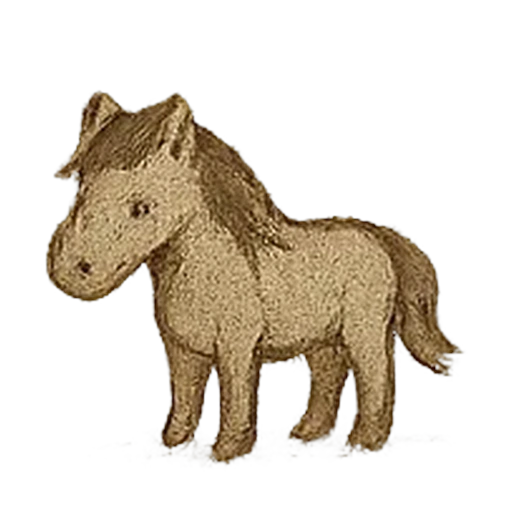
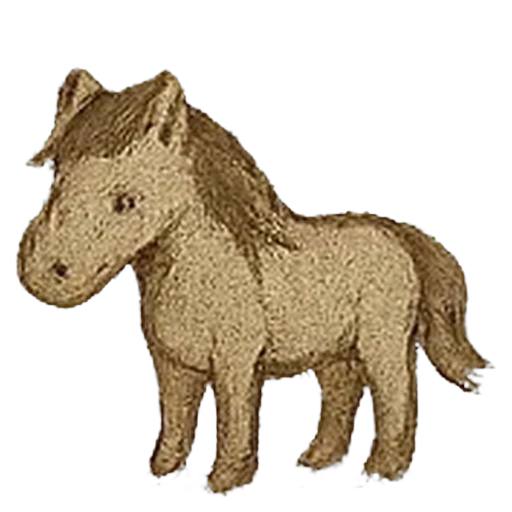
fix(realm): aggressive crop animal sprites to 94% fill and boost overlay sizes
Horse: tileSize*1.1 (136% of hero height - noble steed)
Sheep: tileSize*0.75 (101% of hero height - companion)
Penguin: tileSize*0.55 (69% of hero height - compact buddy)

Images now tightly cropped with only 4px padding instead of
the previous 40-90px transparent margins that made them appear tiny.
Added ?v=3 cache-busting to horse/sheep src URLs.

Changed region(s): [[0.0312, 0.125, 0.9688, 0.9688]]

diff --git a/app/components/MapGrid.tsx b/app/components/MapGrid.tsx
@@ -473,8 +473,8 @@ export function MapGrid({
             style={{
               left: `${penguinPos.x * tileSize + tileSize / 2}px`,
               top: `${penguinPos.y * tileSize + tileSize / 2}px`,
-              width: `${tileSize * 0.44}px`,
-              height: `${tileSize * 0.44}px`,
+              width: `${tileSize * 0.55}px`,
+              height: `${tileSize * 0.55}px`,
               transform: 'translate(-50%, -50%)'
             }}
             title="Penguino"
@@ -483,7 +483,7 @@ export function MapGrid({
               src="/images/Animals/penguin.webp" 
               alt="Penguino" 
               fill
-              sizes={`${tileSize * 0.44}px`}
+              sizes={`${tileSize * 0.55}px`}
               className="object-contain drop-shadow-md" 
             />
           </div>
@@ -499,17 +499,17 @@ export function MapGrid({
             style={{
               left: `${horsePos.x * tileSize + tileSize / 2}px`,
               top: `${horsePos.y * tileSize + tileSize / 2}px`,
-              width: `${tileSize * 0.92}px`,
-              height: `${tileSize * 0.92}px`,
+              width: `${tileSize * 1.1}px`,
+              height: `${tileSize * 1.1}px`,
               transform: 'translate(-50%, -50%)'
             }}
             title="Horse"
           >
             <Image 
-              src="/images/Animals/horse.webp" 
+              src="/images/Animals/horse.webp?v=3" 
               alt="Horse" 
               fill
-              sizes={`${tileSize * 0.92}px`}
+              sizes={`${tileSize * 1.1}px`}
               className="object-contain drop-shadow-md" 
             />
           </div>
@@ -525,17 +525,17 @@ export function MapGrid({
             style={{
               left: `${sheepPos.x * tileSize + tileSize / 2}px`,
               top: `${sheepPos.y * tileSize + tileSize / 2}px`,
-              width: `${tileSize * 0.56}px`,
-              height: `${tileSize * 0.56}px`,
+              width: `${tileSize * 0.75}px`,
+              height: `${tileSize * 0.75}px`,
               transform: 'translate(-50%, -50%)'
             }}
             title="Sheep"
           >
             <Image 
-              src="/images/Animals/sheep.webp" 
+              src="/images/Animals/sheep.webp?v=3" 
               alt="Sheep" 
               fill
-              sizes={`${tileSize * 0.56}px`}
+              sizes={`${tileSize * 0.75}px`}
               className="object-contain drop-shadow-md" 
             />
           </div>

diff --git a/lib/creature-mapping.ts b/lib/creature-mapping.ts
@@ -401,7 +401,7 @@ export const CREATURE_DEFINITIONS: Record<string, CreatureDefinition> = {
             "No hurry, no fuss. Munching grass and weaving banners one thread at a time.",
             "Gentle meadows breed gentle hearts. Take a deep breath with me... baaa."
         ],
-        scale: 0.65
+        scale: 0.85
     },
     '902': {
         id: '902',
@@ -415,7 +415,7 @@ export const CREATURE_DEFINITIONS: Record<string, CreatureDefinition> = {
             "Snort! Free spirit, wild wind, and unstoppable momentum! Ready to ride?",
             "I can carry your message across the widest valley in the blink of an eye."
         ],
-        scale: 1.15
+        scale: 1.25
     },
     '903': {
         id: '903',
@@ -429,6 +429,6 @@ export const CREATURE_DEFINITIONS: Record<string, CreatureDefinition> = {
             "Waddle, waddle, zooooom! Turn obstacles into clean ice glides!",
             "Why walk when you can slide at top speed? Come race me across the pond!"
         ],
-        scale: 0.55
+        scale: 0.70
     }
 };
